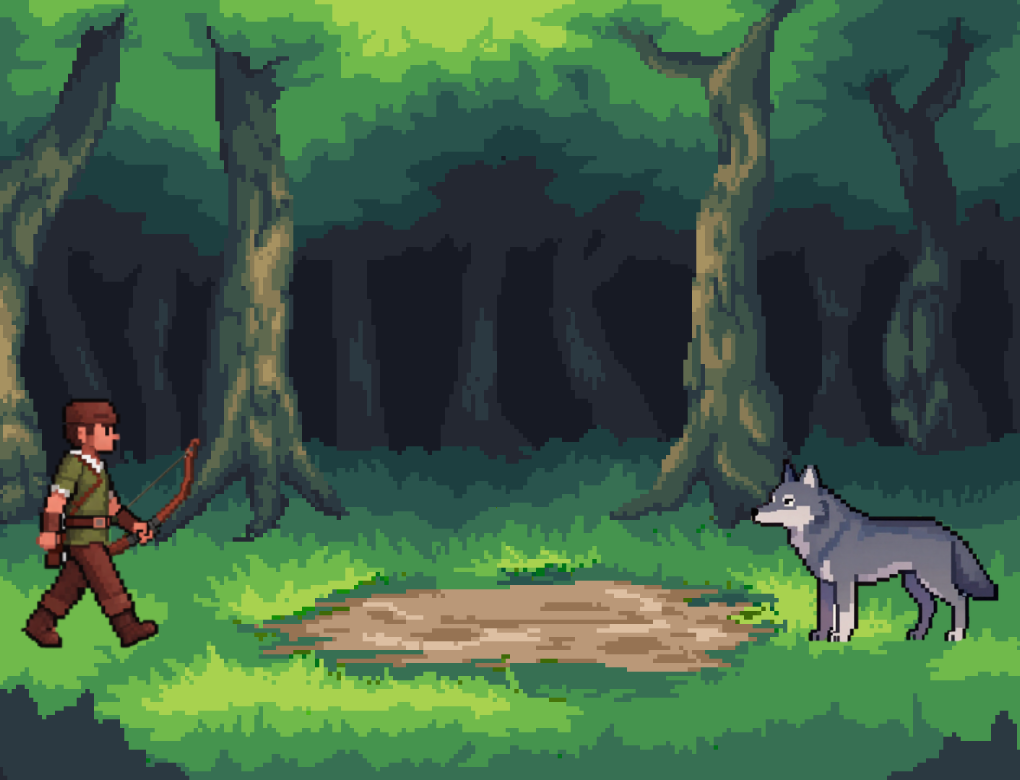
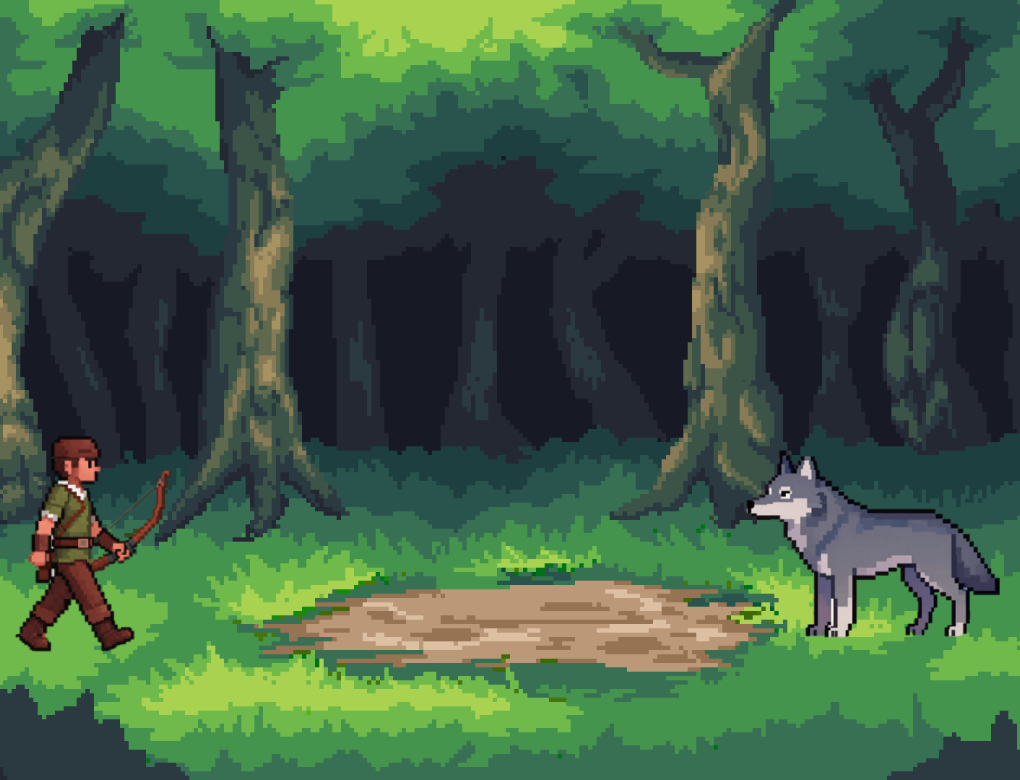
finish fail ending

Changed region(s): [[0.0, 0.4923, 0.2127, 0.8615], [0.7294, 0.5846, 1.0, 0.8308]]

diff --git a/pygame_demo/main.py b/pygame_demo/main.py
@@ -45,8 +45,8 @@ forest_chat = pygame.transform.scale(forest_chat, (1020, 780))
 
 #load failure ending frames into a list
 walk_frames = []
-for i in range(1, 7):
-    frame = pygame.image.load(f"assets/end{i}.png")
+for i in range(1, 10):
+    frame = pygame.image.load(f"pygame_demo/assets/end{i}.png")
     frame = pygame.transform.scale(frame, (1020, 780))
     walk_frames.append(frame)
 
@@ -146,6 +146,11 @@ gnome_chat_assets = {
 red_chat_manager = ChatManager(screen, red_ai, RED_SYSTEM_PROMPT, font, red_chat_assets, npc_name = "Little Red Riding Hood")
 gnome_chat_manager = ChatManager(screen, gnome_ai, GNOME_SYSTEM_PROMPT, font, gnome_chat_assets, npc_name = "Gnome")
 
+# animation variables for ending 
+current_frame = 0
+animation_timer = 0
+animation_speed = 150  # milliseconds per frame
+
 #------------
 # game state
 #------------
@@ -216,22 +221,27 @@ def draw_intro():
     screen.blit(instructions, instructions_rect)
 
 def draw_ending():
-    
-    # animation variables
-    current_frame = 0
-    animation_timer = 0
-    animation_speed = 150  # milliseconds per frame
+    global current_frame, animation_timer
 
-    # loop through each frame once
     animation_timer += clock.tick(60)
+
     if animation_timer >= animation_speed:
-        if current_frame < len(walk_frames) - 1:  
+        if current_frame < len(walk_frames) - 1:
             current_frame += 1
         animation_timer = 0
 
-    screen.blit(walk_frames[current_frame], (x, y))
+    # draw current frame
+    screen.blit(walk_frames[current_frame], (0, 0))
 
-    draw_animated_text(screen, ["YOU", "FAIL!"], font, screen.get_width()//2, screen.get_height()//2, white)
+    # blend next frame on top with increasing opacity
+    if current_frame < len(walk_frames) - 1:
+        next_frame = walk_frames[current_frame + 1].copy()
+        alpha = int((animation_timer / animation_speed) * 255)
+        next_frame.set_alpha(alpha)
+        screen.blit(next_frame, (0, 0))
+
+    if current_frame == len(walk_frames) - 1:
+        draw_animated_text(screen, ["YOU", "FAIL!"], pygame.font.Font(None, 150), screen.get_width()//2, screen.get_height()//2 - 150, white, 100, 0.05, 0.3)
 
 #----------------
 # main game loop
